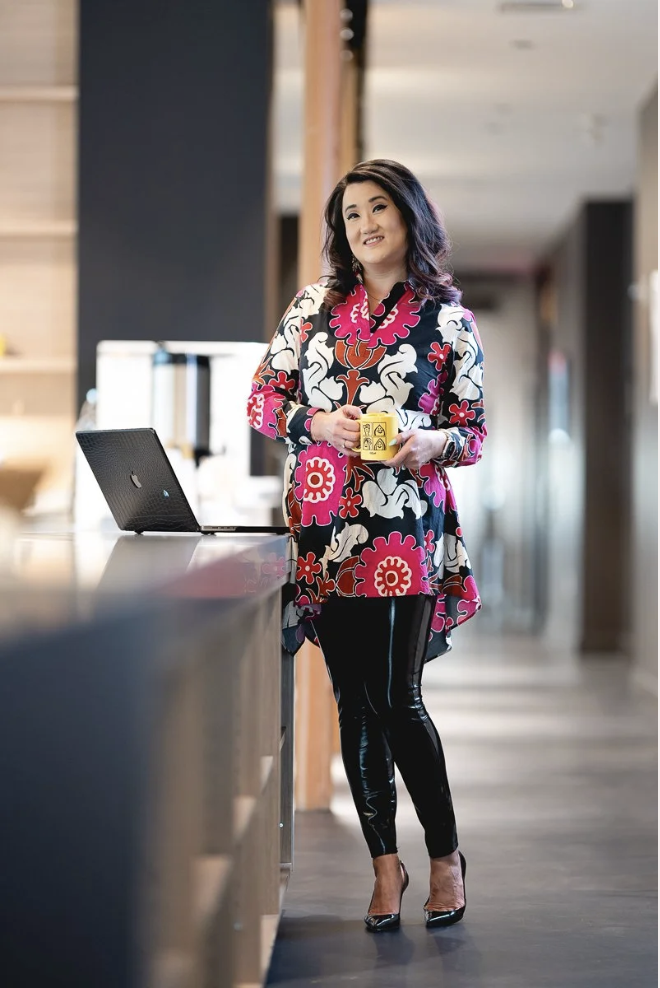
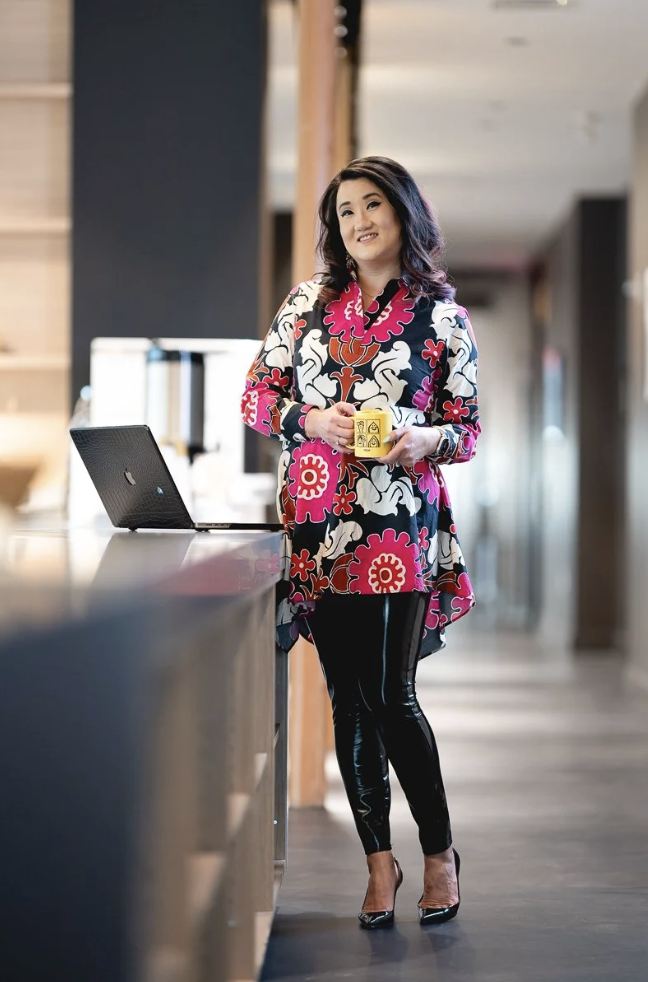
Fix about page mobile centering, remove numbers, fix values glyphs, fix button color

diff --git a/jforce-about.html b/jforce-about.html
@@ -84,7 +84,7 @@ section{padding:110px 60px;}
 .approach-section{background:#ffffff;}
 .approach-grid{display:grid;grid-template-columns:repeat(4,1fr);gap:2px;margin-top:60px;}
 .approach-card{background:#ffffff;padding:44px 32px;position:relative;overflow:hidden;}
-.approach-num{font-family:'Cormorant Garamond',serif;font-size:90px;font-weight:300;color:rgba(104,70,128,0.06);position:absolute;bottom:-6px;right:10px;line-height:1;pointer-events:none;user-select:none;}
+
 .approach-card h3{font-size:10px;font-weight:800;letter-spacing:2.5px;text-transform:uppercase;color:var(--purple);margin-bottom:14px;line-height:1.4;}
 .approach-card p{font-size:13px;line-height:1.85;color:var(--text);}
 
@@ -280,6 +280,18 @@ section{padding:110px 60px;}
 .cta-band .cta-row{justify-content:center;display:flex;flex-wrap:wrap;gap:14px;}
 .final-cta .btn-primary{display:block;margin:0 auto 14px;}
 .hero-body{text-align:center!important;margin-left:auto!important;margin-right:auto!important;}
+@media(max-width:900px){
+  .sec-inner{text-align:center!important;}
+  .sec-inner h2,.sec-title{text-align:center!important;}
+  .eyebrow{text-align:center!important;}
+  .divider{margin-left:auto!important;margin-right:auto!important;}
+  .cta-row,.cta-stack{display:flex!important;flex-direction:column!important;align-items:center!important;}
+  .jamie-story{text-align:center!important;}
+  .cred-bar{text-align:left!important;}
+}
+.cta-band .btn-primary{background:#ffffff!important;color:#7952A3!important;}
+.cta-band .btn-primary:hover{background:rgba(255,255,255,0.9)!important;color:#7952A3!important;}
+.cta-band .cta-row{display:flex;flex-direction:column;align-items:center;gap:14px;}
 </style>
 </head>
 <body>
@@ -367,22 +379,18 @@ section{padding:110px 60px;}
     <div class="divider"></div>
     <div class="approach-grid">
       <div class="approach-card">
-        <div class="approach-num">1</div>
         <h3>Diagnosis Before Prescription</h3>
         <p>We don't assume. <strong>CEO</strong>nyx™ is the diagnosis. CoFoundry™ is the prescription. We never recommend more support than you actually need.</p>
       </div>
       <div class="approach-card">
-        <div class="approach-num">2</div>
         <h3>Coordination, Not Chaos</h3>
         <p>Five contractors who don't talk create work for you. One integrated team removes you as the integration layer entirely.</p>
       </div>
       <div class="approach-card">
-        <div class="approach-num">3</div>
         <h3>Build Toward Handoff</h3>
         <p>Every system is documented for handoff. We're not trying to make you dependent. We're trying to make you independent—with infrastructure instead of chaos.</p>
       </div>
       <div class="approach-card">
-        <div class="approach-num">4</div>
         <h3>Honest, Not Comfortable</h3>
         <p>We tell you what's true—not what you want to hear. <strong>CEO</strong>nyx™ findings are candid. CoFoundry™ engagements include honest assessments of what's working and what isn't.</p>
       </div>
@@ -434,28 +442,28 @@ section{padding:110px 60px;}
     <div class="divider"></div>
     <div class="values-grid">
       <div class="value-card">
-        <div class="value-glyph">Co</div>
+        <div class="value-glyph" style="font-size:32px;color:var(--purple);opacity:0.4;font-family:'Cormorant Garamond',serif;">01</div>
         <div>
           <h3>Collaboration</h3>
           <p>We're on your team—not in your way. We don't compete with your existing staff, and we don't silo ourselves from your business. We integrate, we coordinate, and we make the whole thing work better together.</p>
         </div>
       </div>
       <div class="value-card">
-        <div class="value-glyph">Ex</div>
+        <div class="value-glyph" style="font-size:32px;color:var(--purple);opacity:0.4;font-family:'Cormorant Garamond',serif;">02</div>
         <div>
           <h3>Excellence</h3>
           <p>We don't build systems halfway. We document processes completely. We design handoffs that actually work. The standard we hold ourselves to is: would this be usable without us in the room? If no, we haven't finished yet.</p>
         </div>
       </div>
       <div class="value-card">
-        <div class="value-glyph">Cl</div>
+        <div class="value-glyph" style="font-size:32px;color:var(--purple);opacity:0.4;font-family:'Cormorant Garamond',serif;">03</div>
         <div>
           <h3>Clarity &amp; Support</h3>
           <p>We tell you what's true. <strong>CEO</strong>nyx™ findings are honest—even when they're uncomfortable. CoFoundry™ engagements include candid check-ins on what's working. You need people who will tell you the hard thing.</p>
         </div>
       </div>
       <div class="value-card">
-        <div class="value-glyph">Cn</div>
+        <div class="value-glyph" style="font-size:32px;color:var(--purple);opacity:0.4;font-family:'Cormorant Garamond',serif;">04</div>
         <div>
           <h3>Connection</h3>
           <p>We are not a faceless agency. You know who's working on your business. We're invested in your success beyond the engagement. Some of our best relationships are with founders who graduated years ago.</p>
